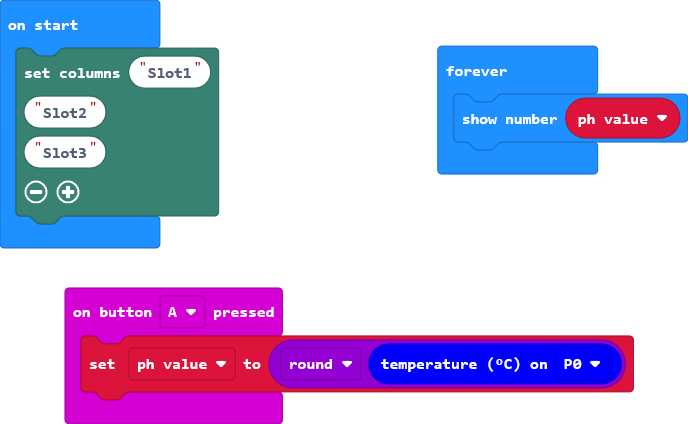
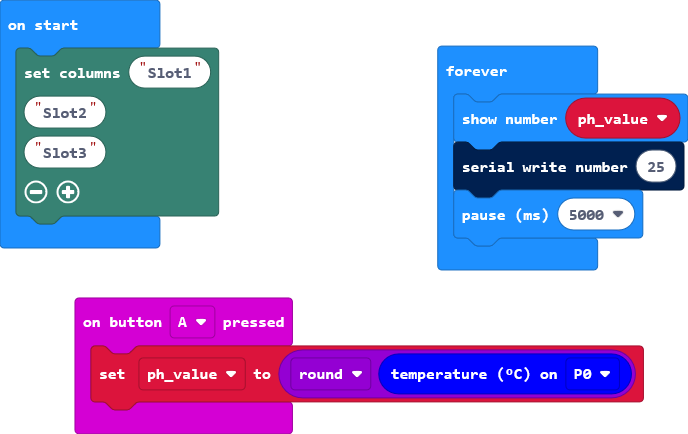
Update main.blocks, main.ts, main.py

diff --git a/main.ts b/main.ts
@@ -9,4 +9,6 @@ datalogger.setColumnTitles(
 )
 basic.forever(function () {
     basic.showNumber(ph_value)
+    serial.writeNumber(25)
+    basic.pause(5000)
 })

diff --git a/main.py b/main.py
@@ -8,4 +8,6 @@ datalogger.set_column_titles("Slot1", "Slot2", "Slot3")
 
 def on_forever():
     basic.show_number(ph_value)
+    serial.write_number(25)
+    basic.pause(5000)
 basic.forever(on_forever)
